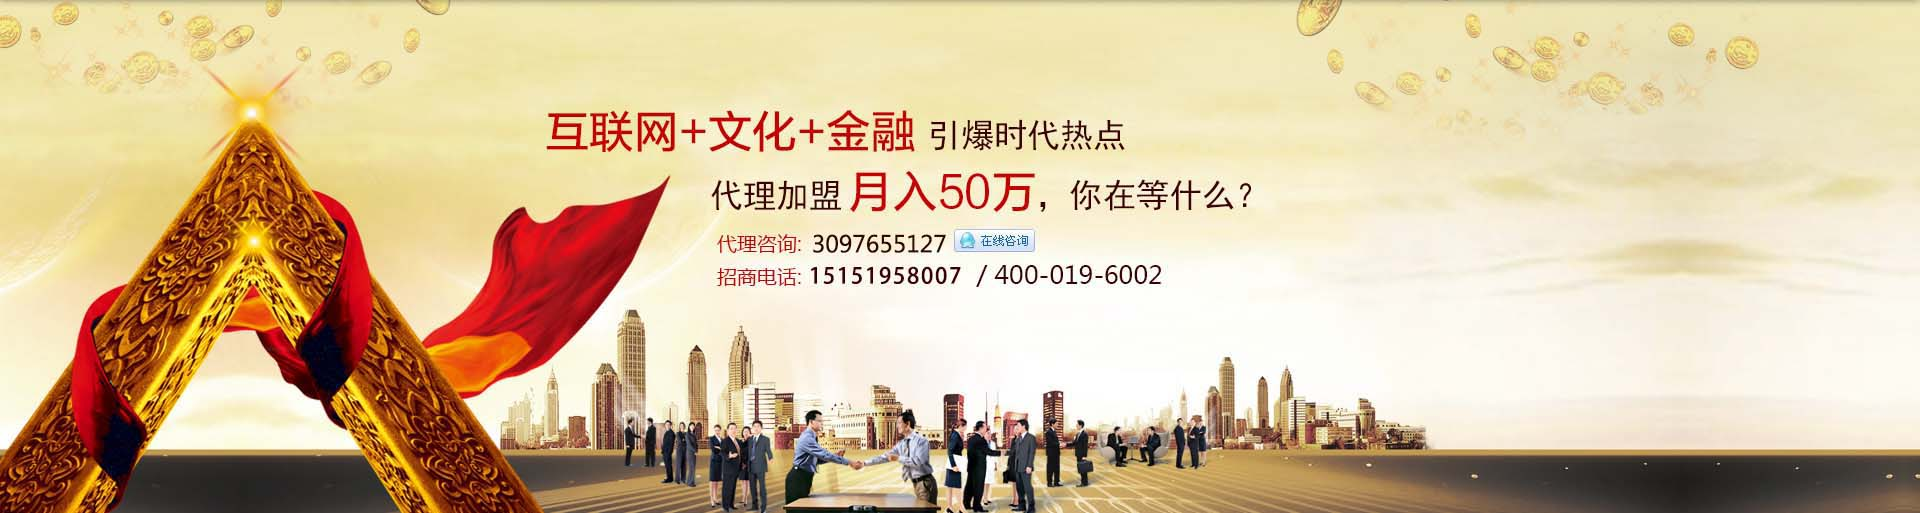
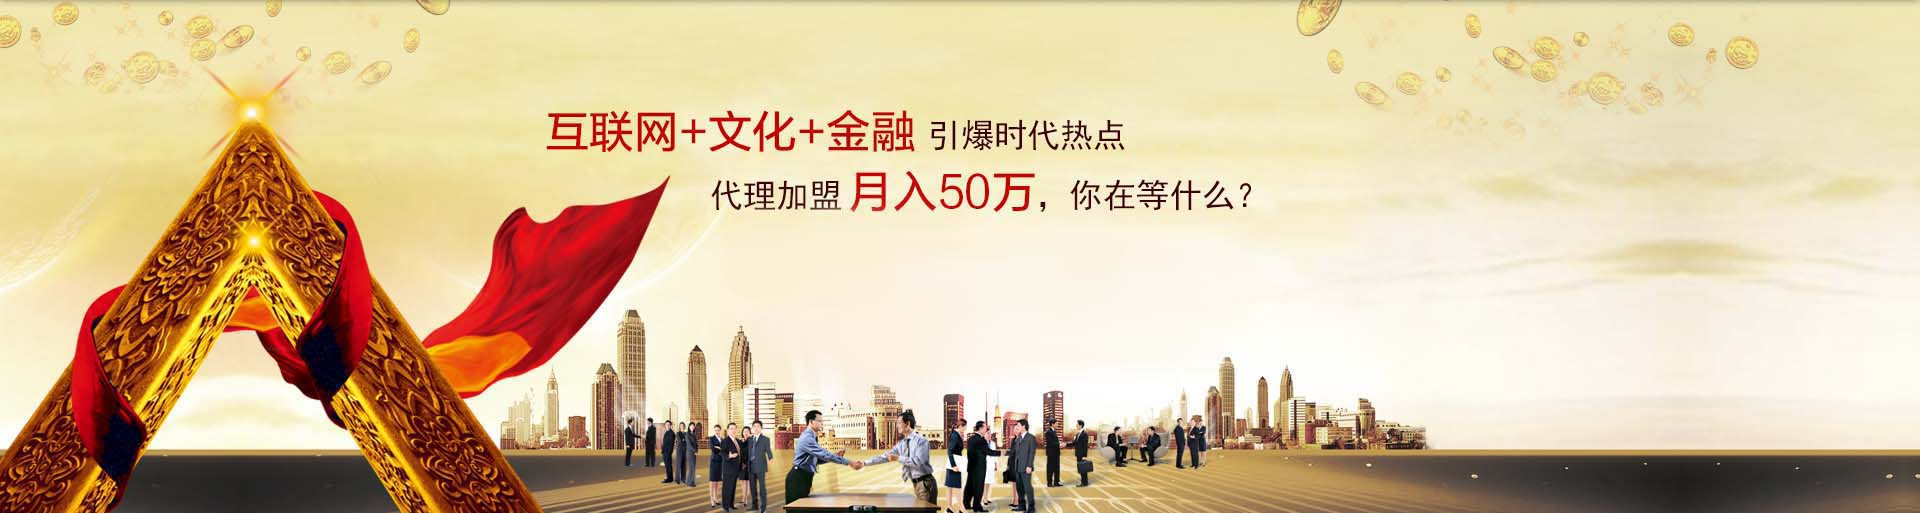
add

Changed region(s): [[0.375, 0.4366, 0.625, 0.5614], [0.5312, 0.7485, 0.5625, 0.8109], [0.4375, 0.7485, 0.4688, 0.8109]]

diff --git a/jm.html b/jm.html
@@ -12,7 +12,7 @@
     <div class="ul">
         <ul>
             <li><a href="/">返回官网</a></li>
-            <li><a href="http://www.zifengwenjin.com/about/contact/">联系我们</a></li>
+            <li><a href="/?/article/id-21/index.html">联系我们</a></li>
         </ul>
     </div>
     <div class="clear"></div>
@@ -48,16 +48,7 @@
     <div class="img5"></div>
 </div>
 <!--banner开始 -->
-<div class="daili">
-    <div class="daili_kk">
-        <div class="qq"><img src="images/qq.jpg"></div>
-        <big>代理咨询qq：</big><div>3244603778</div>
-        <a target="_blank" href="http://wpa.qq.com/msgrd?v=3&amp;uin=3244603778&amp;site=qq&amp;menu=yes"><div class="qq_"><img src="images/qq_.jpg"></div></a>
-        <div class="tel"><img src="images/tel.jpg"></div>
-        <big>招商电话：</big><div>400-019-6002&nbsp;&nbsp;&nbsp;15151958007&nbsp;&nbsp;&nbsp;</div>
-    </div>
-    <div class="clear"></div>
-</div>
+
 
 <!--让投资人 -->
 <div class="touzi">
@@ -125,7 +116,7 @@
         </dl>
         <dl>
             <dt><a target="_blank" href="?/hebei/">河北文交所</a></dt>
-            <dd><a target="_blank" href="https://kh.zgqbyp.com/SelfOpenAccount/index.jsp?brokerId=2351">开户中心</a></dd>
+            <dd><a target="_blank" href="https://z.hbyoubi.com:16919/SelfOpenAccount/index.jsp?brokerId=21085">开户中心</a></dd>
             <dd><a target="_blank" href="jm.html">招商加盟</a></dd>
         </dl>
         <dl>
@@ -133,11 +124,9 @@
             <dd><a target="_blank" href="http://www.zgqbyp.com/html/2014-3/201431154.html">客户端下载</a></dd>
         </dl>
         <dl>
-            <dt><a target="_blank" href="http://www.zifengwenjin.com/about/">关于我们</a></dt>
-            <dd><a target="_blank" href="http://www.zifengwenjin.com/about/info/">中心简介</a></dd>
-            <dd><a target="_blank" href="http://www.zifengwenjin.com/about/course/">发展历程</a></dd>
-            <dd><a target="_blank" href="http://www.zifengwenjin.com/net/">服务网点</a></dd>
-            <dd><a target="_blank" href="http://www.zifengwenjin.com/about/contact/">联系我们</a></dd>
+            <dt><a target="_blank" href="?/article/id-17/index.html">关于我们</a></dt>
+            <dd><a target="_blank" href="?/article/id-20/index.html">中心简介</a></dd>
+            <dd><a target="_blank" href="?/article/id-21/index.html">联系我们</a></dd>
         </dl>
     </div>
 </div>

diff --git a/templates/default/index/module/ad.php b/templates/default/index/module/ad.php
@@ -5,7 +5,7 @@
     <a title="南京文交所开户" target="_blank" class="div" href="https://kh.zgqbyp.com/SelfOpenAccount/index.jsp?brokerId=2351">
     <div style="width:232px; height:60px; background:#c71113; line-height:60px; text-align:center; color:#FFF; font-size:18px; margin-top:15px;">+&nbsp;南京文交所开户</div>
     </a>
-     <a target="_blank" class="div" href="https://kh.zgqbyp.com/SelfOpenAccount/index.jsp?brokerId=2351" title="河北文交所开户">
+     <a target="_blank" class="div" href="https://z.hbyoubi.com:16919/SelfOpenAccount/index.jsp?brokerId=21085" title="河北文交所开户">
     <div style="width:232px; height:60px; background:#c71113; line-height:60px; text-align:center; color:#FFF; font-size:18px; margin-top:15px;">+&nbsp;河北文交所开户</div>
     </a>
     </div>
@@ -13,31 +13,25 @@
 
   <div id="touchMain" class="slide-main"><a stat="prev1001" href="javascript:;" class="prev"><img src="{$S_TPL_PATH}img/l-btn.png"></a>
     <div id="slideContent" class="slide-box">
-        <div id="bgstylea" class="slide" style="display: none; opacity: 0.5; z-index: 0;"><a rel="nofollow" target="_blank" href="http://www.zifengwenjin.com/activity/" stat="sslink-5">
+        <div id="bgstylea" class="slide" style="display: none; opacity: 0.5; z-index: 0;"><a rel="nofollow" href="" stat="sslink-5">
        <div style="position:relative; left:47%; top:auto;"><img src="{$S_TPL_PATH}img/index_07.jpg" style="width:1920px; left:-900px; height:513px; position:relative; top:auto;"></div>
         </a> </div>
        <!-- <div class="slide" id="bgstylea"><a stat="sslink-4" href="http://www.duobaniu.com/" target="_blank" rel="nofollow">
        <div style="position:relative; left:47%; top:auto;"><img style="width:1920px; left:-900px; height:513px; position:relative; top:auto;" src="{$S_TPL_PATH}img/zfbanner.jpg" /></div>
         </a></div> -->
 
-        <div id="bgstylea" class="slide" style="opacity: 0.5; z-index: 0; display: none;"><a target="_blank" href="http://www.zifengwenjin.com/news/2015/928.html" stat="sslink-1">
+        <div id="bgstylea" class="slide" style="opacity: 0.5; z-index: 0; display: none;"><a href="" stat="sslink-1">
         <div style="position:relative; left:47%; top:auto;"><img src="{$S_TPL_PATH}img/baner2_06.jpg" style="width:1920px; left:-900px; height:513px; position:relative; top:auto;"></div>
         </a></div>
-      <div id="bgstylea" class="slide" style="opacity: 0.5; z-index: 0; display: none;"><a target="_blank" href="http://www.zifengwenjin.com/news/2015/492.html" stat="sslink-2">
+      <div id="bgstylea" class="slide" style="opacity: 0.5; z-index: 0; display: none;"><a href="" stat="sslink-2">
         <div style="position:relative; left:47%; top:auto;"><img src="{$S_TPL_PATH}img/index_01.jpg" style="width:1920px; left:-900px; height:513px; position:relative; top:auto;"></div>
         </a></div>
-      <div id="bgstyleb" class="slide banAnimate" style="opacity: 1; z-index: 8; display: block;"><a target="_blank" href="http://www.zifengwenjin.com/news/2015/142.html" stat="sslink-3">
+      <div id="bgstyleb" class="slide banAnimate" style="opacity: 1; z-index: 8; display: block;"><a href="" stat="sslink-3">
         <div style="position:relative; left:47%; top:auto;"><img src="{$S_TPL_PATH}img/index_02.jpg" style="width:1920px; left:-900px; height:513px; position:relative; top:auto;"></div>
         </a></div>
       <div id="bgstylec" class="slide" style="opacity: 0.5; z-index: 0; display: none;">
         <div style="position:relative; left:47%; top:auto;"><img border="0" style="width:1920px; left:-900px; height:513px; position:relative; top:auto;" usemap="#Map" src="{$S_TPL_PATH}img/index_03.jpg">
-          <map id="Map" name="Map">
-            <area onfocus="this.blur()" target="_blank" href="http://wpa.qq.com/msgrd?v=3&amp;uin=3097655127&amp;site=qq&amp;menu=yes" coords="952,227,1038,254" shape="rect">
-            <area onfocus="this.blur()" target="_blank" href="http://jm.zifengwenjin.com/" coords="172,6,1915,224" shape="rect">
-            <area onfocus="this.blur()" target="_blank" href="http://jm.zifengwenjin.com/" coords="170,255,1907,503" shape="rect">
-            <area onfocus="this.blur()" target="_blank" href="http://jm.zifengwenjin.com/" coords="175,227,951,253" shape="rect">
-            <area onfocus="this.blur()" target="_blank" href="http://jm.zifengwenjin.com/" coords="1040,227,1913,255" shape="rect">
-          </map>
+
         </div>
       </div>
     </div>
@@ -49,6 +43,10 @@
 
 
 <div class="kh">
-  <div class="khty"><a title="活动专区" target="_blank" href="http://www.zifengwenjin.com/activity/"><img width="284" height="143" src="{$S_TPL_PATH}img/pic1.jpg"></a><a target="_blank" title="开户体验" rel="nofollow" href="https://kh.zgqbyp.com/SelfOpenAccount/index.jsp?brokerId=2351"><img width="284" height="143" src="{$S_TPL_PATH}img/pic2.jpg"></a><a target="_blank" title="招商加盟" href="jm.html"><img width="284" height="143" src="{$S_TPL_PATH}img/pic3.jpg"></a><a target="_blank" title="视频中心" href="/video/"><img width="284" height="143" src="{$S_TPL_PATH}img/pic4.jpg"></a></div>
+  <div class="khty">
+      <a title="活动专区" target="_blank" href="?/article/id-18/index.html"><img width="284" height="143" src="{$S_TPL_PATH}img/pic1.jpg"></a>
+      <a target="_blank" title="开户体验" rel="nofollow" href="?/article/id-19/index.html"><img width="284" height="143" src="{$S_TPL_PATH}img/pic2.jpg"></a>
+      <a target="_blank" title="招商加盟" href="jm.html"><img width="284" height="143" src="{$S_TPL_PATH}img/pic3.jpg"></a>
+      <a target="_blank" title="视频中心" href="http://v.youku.com/v_show/id_XNzA4NjgzMjY4.html?sharefrom=iphone"><img width="284" height="143" src="{$S_TPL_PATH}img/pic4.jpg"></a></div>
   <!--开户体验 -->
 </div>

diff --git a/templates/default/index/module/article_list.php b/templates/default/index/module/article_list.php
@@ -110,7 +110,7 @@
           河北文交所：<a href="tencent://message/?uin=3270541268&Site">3270541268 </a><a target="_blank" href="tencent://message/?uin=3270541268&Site"><img style="vertical-align: middle;width: 85px;" alt="在线咨询" src="{$S_TPL_PATH}img/qqq.jpg"></a></big></div>
           <div class="fdiv">
           <a target="_blank" href="https://kh.zgqbyp.com/SelfOpenAccount/index.jsp?brokerId=2351"><img style="margin-top:18px;height:52px;" src="{$S_TPL_PATH}img/tubiao.png"><span style="font-size:24px; height:52px;vertical-align:50%;">南京文交所</span><span class="mianfei">免费开户</span></a><br>
-          <a target="_blank" href="https://kh.zgqbyp.com/SelfOpenAccount/index.jsp?brokerId=2351"><img style="margin-top:20px;height:52px;" src="{$S_TPL_PATH}img/tubiao0.png"><span style="font-size:24px; height:52px;vertical-align:50%;">河北文交所</span><span class="mianfei">免费开户</span></a></div>
+          <a target="_blank" href="https://z.hbyoubi.com:16919/SelfOpenAccount/index.jsp?brokerId=21085"><img style="margin-top:20px;height:52px;" src="{$S_TPL_PATH}img/tubiao0.png"><span style="font-size:24px; height:52px;vertical-align:50%;">河北文交所</span><span class="mianfei">免费开户</span></a></div>
 		</div>
         <div class="weixin"> <img width="95" height="95" style="margin-right:20px;" src="{$S_TPL_PATH}img/wx.png">
           <div class="zfwj"><b>恒瑞文金</b>

diff --git a/templates/default/index/module/footer.php b/templates/default/index/module/footer.php
@@ -8,7 +8,7 @@
     </dl>
     <dl>
       <dt><a target="_blank" href="?/hebei/">河北文交所</a></dt>
-      <dd><a target="_blank" href="https://kh.zgqbyp.com/SelfOpenAccount/index.jsp?brokerId=2351">开户中心</a></dd>
+      <dd><a target="_blank" href="https://z.hbyoubi.com:16919/SelfOpenAccount/index.jsp?brokerId=21085">开户中心</a></dd>
       <dd><a target="_blank" href="jm.html">招商加盟</a></dd>
     </dl>
     <dl>
@@ -16,11 +16,9 @@
       <dd><a target="_blank" href="http://www.zgqbyp.com/html/2014-3/201431154.html">客户端下载</a></dd>
     </dl>
     <dl>
-      <dt><a target="_blank" href="/about/">关于我们</a></dt>
-      <dd><a target="_blank" href="/about/info/">中心简介</a></dd>
-      <dd><a target="_blank" href="/about/course/">发展历程</a></dd>
-      <dd><a target="_blank" href="/net/">服务网点</a></dd>
-      <dd><a target="_blank" href="/about/contact/">联系我们</a></dd>
+      <dt><a target="_blank" href="?/article/id-17/index.html">关于我们</a></dt>
+      <dd><a target="_blank" href="?/article/id-20/index.html">中心简介</a></dd>
+      <dd><a target="_blank" href="?/article/id-21/index.html">联系我们</a></dd>
     </dl>
   </div>
 </div>

diff --git a/templates/default/index/module/article_main.php b/templates/default/index/module/article_main.php
@@ -16,7 +16,7 @@
 			<div class="zt">
 				<ul>
 					<li class="li_a"><a href="https://kh.zgqbyp.com/SelfOpenAccount/index.jsp?brokerId=2351">南京文交所开户中心</a></li>
-					<li class="li_b"><a href="https://kh.zgqbyp.com/SelfOpenAccount/index.jsp?brokerId=2351">河北文交所开户中心</a></li>
+					<li class="li_b"><a href="https://z.hbyoubi.com:16919/SelfOpenAccount/index.jsp?brokerId=21085">河北文交所开户中心</a></li>
 				</ul>
 			</div>
 

diff --git a/templates/default/index/module/header.php b/templates/default/index/module/header.php
@@ -28,7 +28,7 @@
         <li><a href="?/hebei/">河北文交所</a></li>
         <li><a href="jm.html">招商加盟</a></li>
         <li><a href="http://www.zgqbyp.com/html/2014-3/201431154.html">下载中心</a></li>
-        <li><a href="/about/">关于我们</a></li>
+        <li><a href="?/article/id-17/index.html">关于我们</a></li>
       </ul>
     </div>
 </div>
